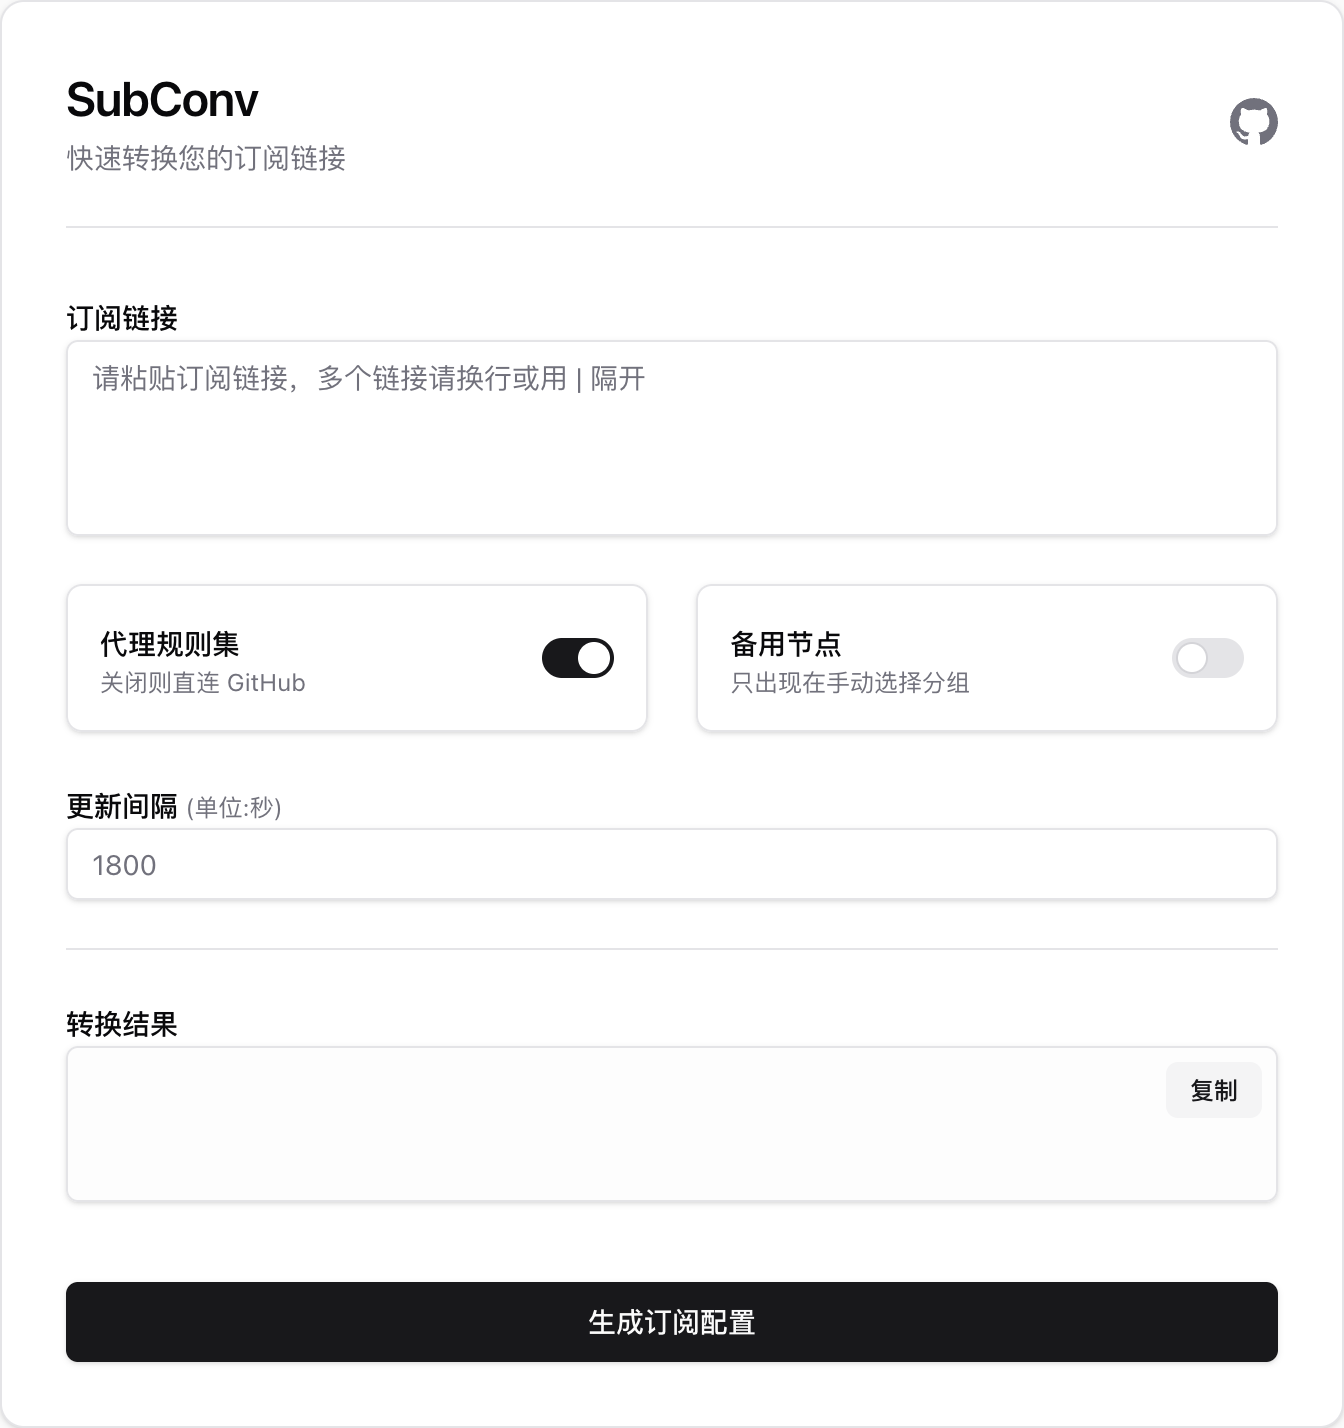
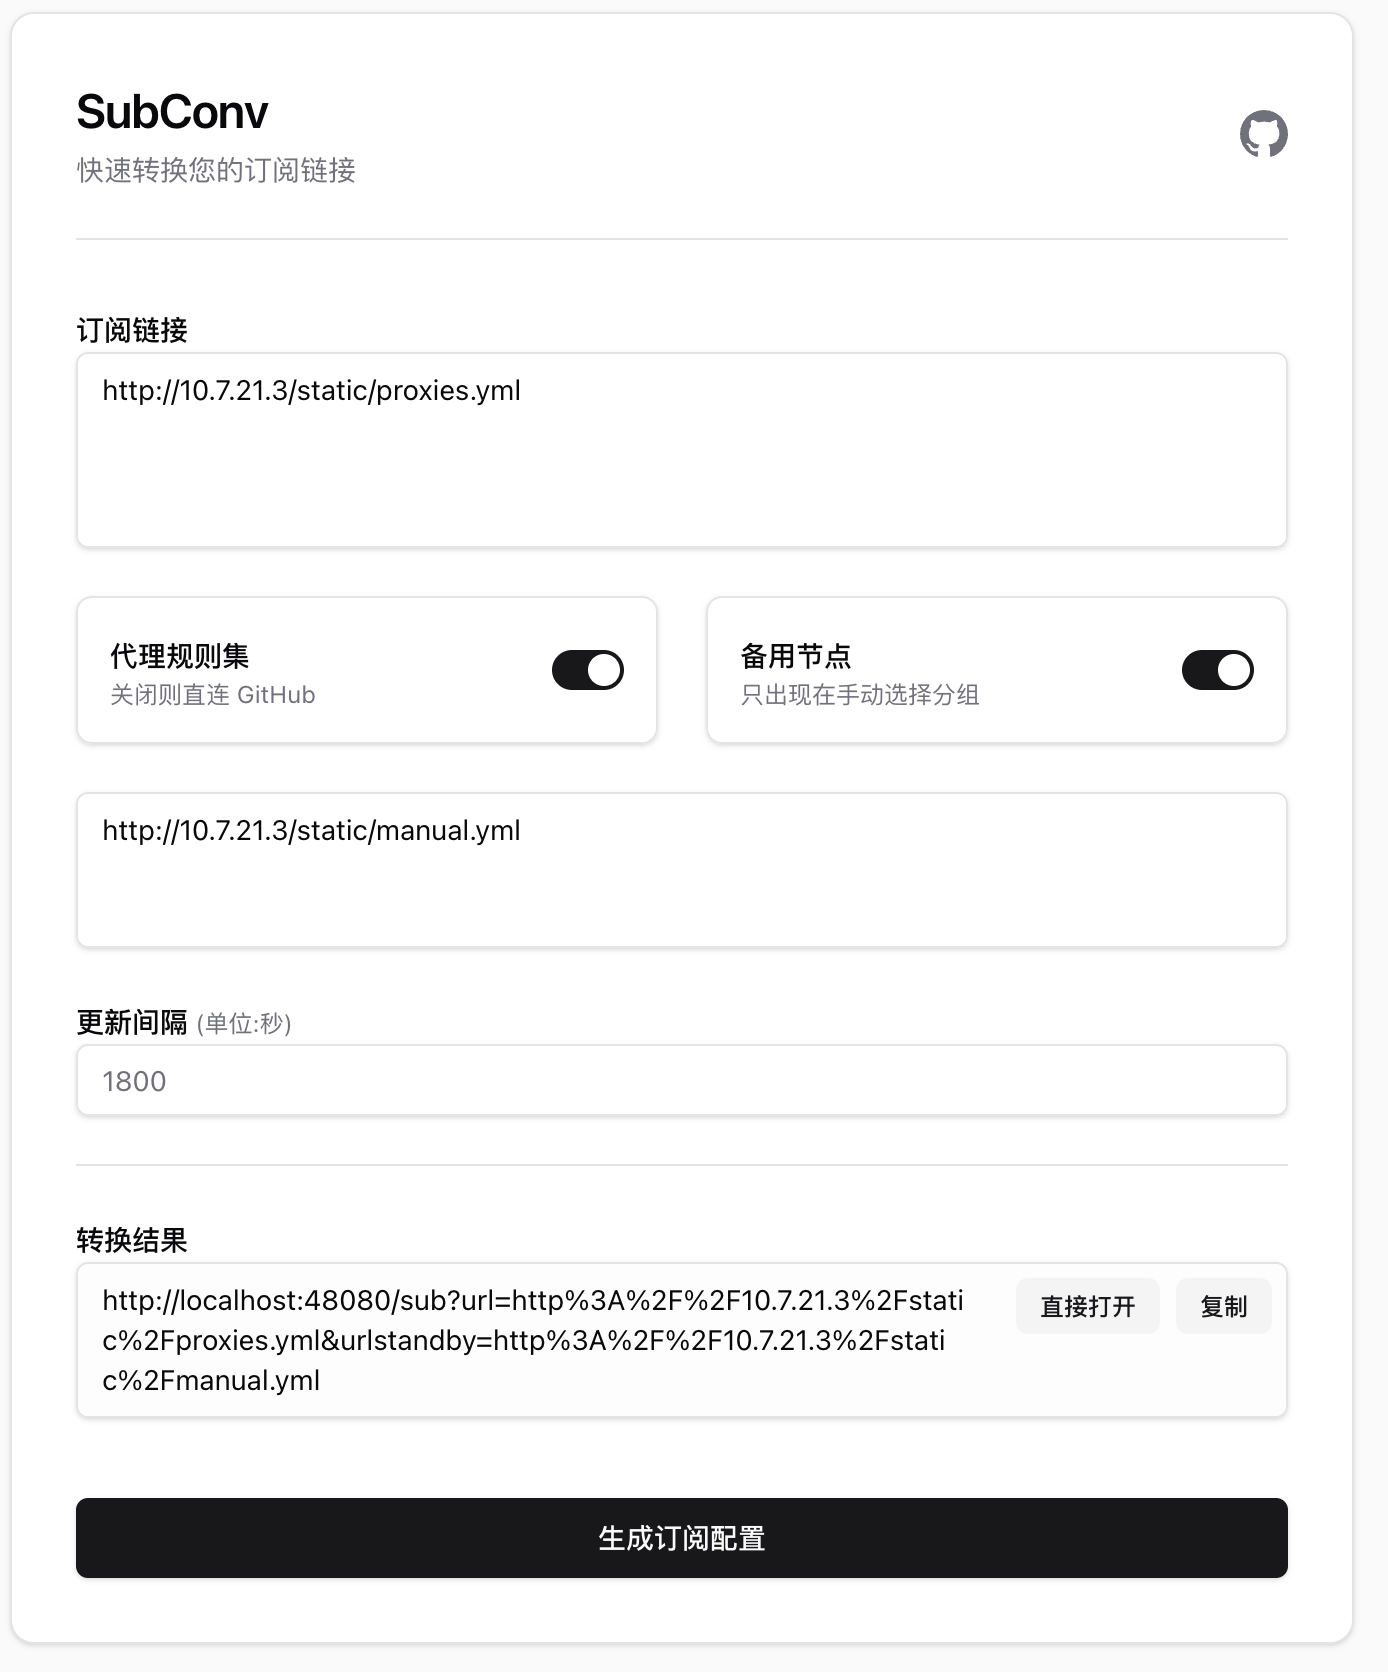
ui

diff --git a/app/components/SubForm.tsx b/app/components/SubForm.tsx
@@ -23,7 +23,7 @@ export default function SubForm() {
   const [linkError, setLinkError] = useState(false);
   const [timeError, setTimeError] = useState(false);
   const toastTimer = useRef<ReturnType<typeof setTimeout> | undefined>(
-    undefined
+    undefined,
   );
   const outputRef = useRef<HTMLTextAreaElement>(null);
 
@@ -53,7 +53,7 @@ export default function SubForm() {
         standby: standbySwitch,
         standbyLink: standbyInput,
         proxy: proxySwitch,
-      })
+      }),
     );
   }, [linkInput, timeInput, standbySwitch, standbyInput, proxySwitch]);
 
@@ -170,10 +170,7 @@ export default function SubForm() {
     <div className="space-y-6">
       {/* 订阅链接 */}
       <div className="space-y-2">
-        <label
-          htmlFor="linkInput"
-          className="text-sm font-medium leading-none"
-        >
+        <label htmlFor="linkInput" className="text-sm font-medium leading-none">
           订阅链接
         </label>
         <textarea
@@ -248,10 +245,7 @@ export default function SubForm() {
 
       {/* 更新间隔 */}
       <div className="space-y-2">
-        <label
-          htmlFor="timeInput"
-          className="text-sm font-medium leading-none"
-        >
+        <label htmlFor="timeInput" className="text-sm font-medium leading-none">
           更新间隔{" "}
           <span className="text-xs text-zinc-500 dark:text-zinc-400 font-normal">
             (单位:秒)
@@ -286,24 +280,24 @@ export default function SubForm() {
             className={`${inputClass} bg-zinc-50/50 dark:bg-zinc-900/50 pr-40 break-all`}
             value={linkOutput}
           />
-          <div className="absolute right-2 top-2 flex gap-2">
-            <button
-              onClick={handleOpen}
-              disabled={!linkOutput}
-              className="inline-flex items-center justify-center whitespace-nowrap rounded-md text-xs font-medium transition-colors focus-visible:outline-none focus-visible:ring-1 focus-visible:ring-zinc-950 bg-zinc-100 text-zinc-900 hover:bg-zinc-200 disabled:cursor-not-allowed disabled:opacity-50 dark:bg-zinc-800 dark:text-zinc-50 dark:hover:bg-zinc-700 h-7 px-3"
-              title="直接打开结果链接"
-            >
-              直接打开
-            </button>
-            <button
-              onClick={handleCopy}
-              disabled={!linkOutput}
-              className="inline-flex items-center justify-center whitespace-nowrap rounded-md text-xs font-medium transition-colors focus-visible:outline-none focus-visible:ring-1 focus-visible:ring-zinc-950 bg-zinc-100 text-zinc-900 hover:bg-zinc-200 disabled:cursor-not-allowed disabled:opacity-50 dark:bg-zinc-800 dark:text-zinc-50 dark:hover:bg-zinc-700 h-7 px-3"
-              title="复制到剪贴板"
-            >
-              复制
-            </button>
-          </div>
+          {linkOutput && (
+            <div className="absolute right-2 top-2 flex gap-2">
+              <button
+                onClick={handleOpen}
+                className="inline-flex items-center justify-center whitespace-nowrap rounded-md text-xs font-medium transition-colors focus-visible:outline-none focus-visible:ring-1 focus-visible:ring-zinc-950 bg-zinc-100 text-zinc-900 hover:bg-zinc-200 disabled:cursor-not-allowed disabled:opacity-50 dark:bg-zinc-800 dark:text-zinc-50 dark:hover:bg-zinc-700 h-7 px-3"
+                title="直接打开结果链接"
+              >
+                直接打开
+              </button>
+              <button
+                onClick={handleCopy}
+                className="inline-flex items-center justify-center whitespace-nowrap rounded-md text-xs font-medium transition-colors focus-visible:outline-none focus-visible:ring-1 focus-visible:ring-zinc-950 bg-zinc-100 text-zinc-900 hover:bg-zinc-200 disabled:cursor-not-allowed disabled:opacity-50 dark:bg-zinc-800 dark:text-zinc-50 dark:hover:bg-zinc-700 h-7 px-3"
+                title="复制到剪贴板"
+              >
+                复制
+              </button>
+            </div>
+          )}
           {showToast && (
             <span className="absolute right-3 -top-6 text-xs text-green-600 dark:text-green-500 font-medium bg-green-50 dark:bg-green-950/50 px-2 py-1 rounded">
               已复制
